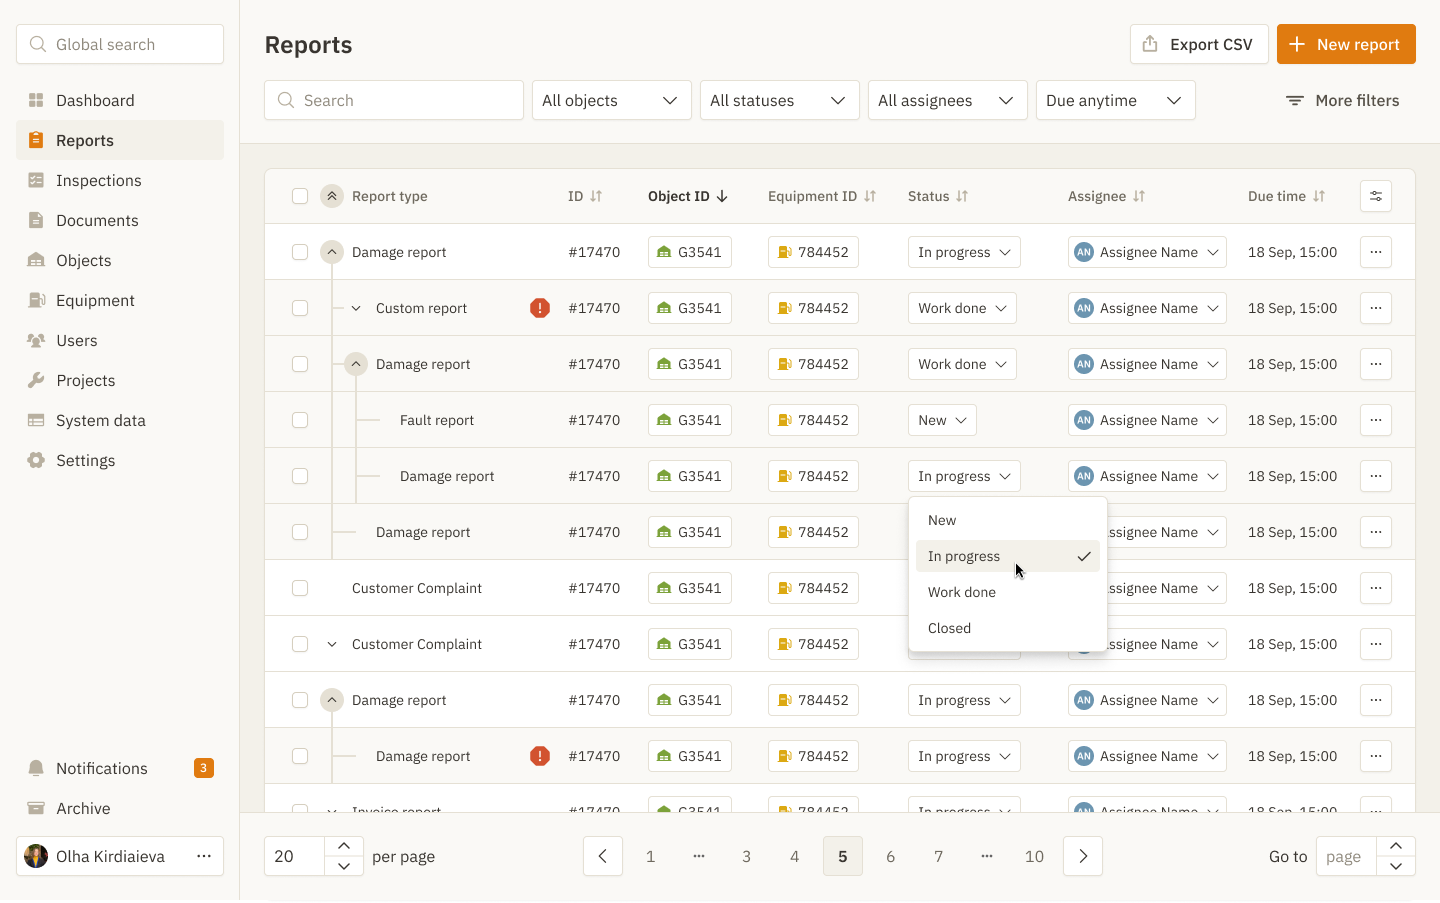
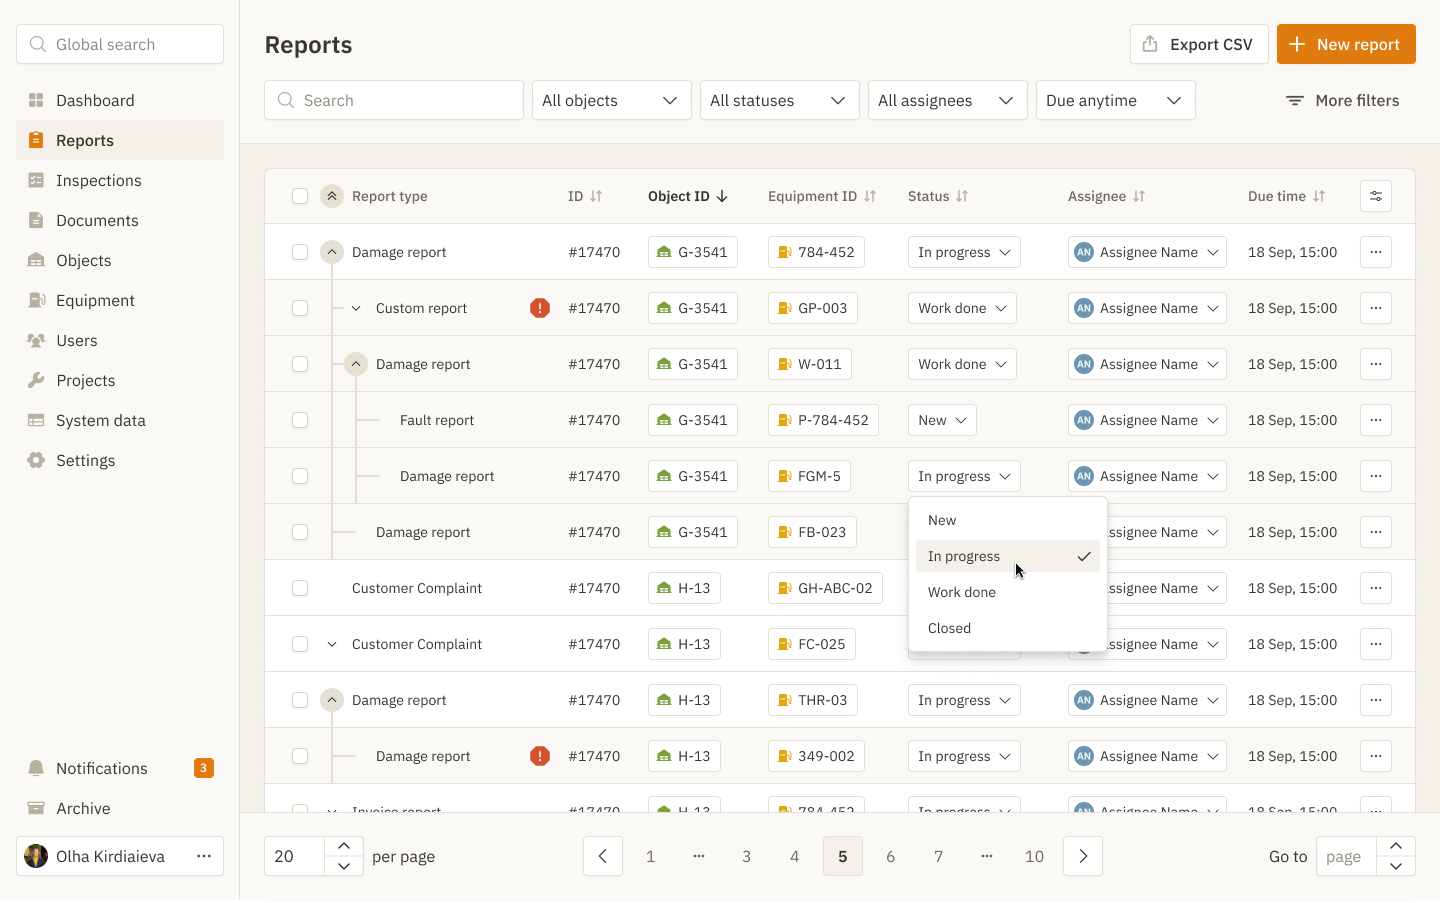
Reports case improvement, new case study analytics

diff --git a/js/analytics.js b/js/analytics.js
@@ -65,4 +65,106 @@
       posthog.capture("contact_click", { method: "linkedin" });
     }
   });
+
+  // Case study engagement: how far visitors scroll, how long they stay, and which
+  // sections they read (dwell >= 4s of active time) vs skip. Accumulates in memory
+  // and fires ONE summary event when they leave. No storage used (cookie-less safe).
+  document.addEventListener("casestudy:rendered", function (ev) {
+    var slug = ev.detail && ev.detail.slug;
+    if (!slug) return;
+
+    var READ_MS = 4000;       // dwell to count a section as "read"
+    var heads = [].slice.call(document.querySelectorAll(".cs-prose h2"));
+    if (!heads.length) return;
+
+    // Section label: prefer an author-assigned id (`## Title {#id}`, set by site.js)
+    // so it survives heading rewrites; else fall back to de-duplicated slugified text.
+    var seen = {};
+    var sections = heads.map(function (h) {
+      if (h.id) return { el: h, label: h.id };
+      var base = (h.textContent || "section").trim().toLowerCase()
+        .replace(/[^a-z0-9]+/g, "-").replace(/^-+|-+$/g, "") || "section";
+      seen[base] = (seen[base] || 0) + 1;
+      var label = seen[base] > 1 ? base + "-" + seen[base] : base;
+      return { el: h, label: label };
+    });
+
+    var dwellMs = {};
+    sections.forEach(function (s) { dwellMs[s.label] = 0; });
+
+    // Section vertical ranges, recomputed each tick so late-loading images / resizes
+    // (which shift layout without a reliable single event) can't misattribute dwell.
+    function buildRanges() {
+      var docH = document.documentElement.scrollHeight;
+      return sections.map(function (s, i) {
+        var next = sections[i + 1];
+        return {
+          label: s.label,
+          top: s.el.getBoundingClientRect().top + window.pageYOffset,
+          bottom: next ? next.el.getBoundingClientRect().top + window.pageYOffset : docH
+        };
+      });
+    }
+
+    var maxScrollPct = 0;
+    function updateScroll() {
+      var docH = document.documentElement.scrollHeight;
+      var pct = docH > 0 ? ((window.pageYOffset + window.innerHeight) / docH) * 100 : 0;
+      if (pct > maxScrollPct) maxScrollPct = Math.min(100, pct);
+    }
+    var rafPending = false;
+    window.addEventListener("scroll", function () {
+      if (rafPending) return;
+      rafPending = true;
+      requestAnimationFrame(function () { rafPending = false; updateScroll(); });
+    }, { passive: true });
+    updateScroll();
+
+    // 1s tick: credit active time to whichever section holds the viewport center.
+    var activeMs = 0;
+    var tick = setInterval(function () {
+      if (document.hidden) return;
+      activeMs += 1000;
+      var ranges = buildRanges();
+      var center = window.pageYOffset + window.innerHeight / 2;
+      for (var i = 0; i < ranges.length; i++) {
+        if (center >= ranges[i].top && center < ranges[i].bottom) {
+          dwellMs[ranges[i].label] += 1000;
+          break;
+        }
+      }
+    }, 1000);
+
+    var sent = false;
+    function sendSummary() {
+      if (sent) return;
+      sent = true;
+      clearInterval(tick);
+
+      var read = [], skipped = [], dwellSecs = {};
+      sections.forEach(function (s) {
+        dwellSecs[s.label] = Math.round(dwellMs[s.label] / 1000);
+        (dwellMs[s.label] >= READ_MS ? read : skipped).push(s.label);
+      });
+
+      posthog.capture("case_study_engaged", {
+        slug: slug,
+        active_seconds: Math.round(activeMs / 1000),
+        max_scroll_pct: Math.round(maxScrollPct),
+        reached_end: maxScrollPct >= 90,
+        sections_total: sections.length,
+        sections_read: read,
+        sections_skipped: skipped,
+        read_count: read.length,
+        skipped_count: skipped.length,
+        section_dwell: dwellSecs
+      });
+    }
+
+    // visibilitychange->hidden is the reliable exit signal (esp. mobile); pagehide backs it up.
+    document.addEventListener("visibilitychange", function () {
+      if (document.hidden) sendSummary();
+    });
+    window.addEventListener("pagehide", sendSummary);
+  });
 })();

diff --git a/js/site.js b/js/site.js
@@ -117,6 +117,18 @@ function renderMarkdown(body) {
   return marked.parse(replaceObsidianEmbeds(body));
 }
 
+/* Stable heading IDs: `## Title {#my-id}` → <h2 id="my-id">Title</h2>.
+   Lets analytics track a section by a fixed id even if its visible text is reworded.
+   Optional per heading; unmarked headings are unaffected. */
+function applyHeadingIds(root) {
+  root.querySelectorAll(".cs-prose h2, .cs-prose h3").forEach((h) => {
+    const m = h.textContent.match(/\s*\{#([a-z0-9-]+)\}\s*$/i);
+    if (!m) return;
+    h.id = m[1];
+    h.textContent = h.textContent.slice(0, m.index).replace(/\s+$/, "");
+  });
+}
+
 function escapeHtml(s) {
   return String(s).replace(/[&<>"']/g, (c) =>
     ({ "&": "&amp;", "<": "&lt;", ">": "&gt;", '"': "&quot;", "'": "&#39;" }[c])
@@ -304,6 +316,10 @@ async function renderCaseStudy(rootEl) {
 
   hookEmbedFallbacks(rootEl);
   initCompare(rootEl);
+  applyHeadingIds(rootEl);
+
+  // Signal that the case study DOM is ready (js/analytics.js listens to track engagement).
+  document.dispatchEvent(new CustomEvent("casestudy:rendered", { detail: { slug } }));
 }
 
 function notFoundMarkup(message) {

diff --git a/content/case-studies/2022-gas-stations.md b/content/case-studies/2022-gas-stations.md
@@ -5,19 +5,19 @@ tags: [UX research, UI redesign]
 year: "2022 → 2026 redesign"
 gradient: 4
 cover: images/reports-kanban-ui-cover.png
-testimonial: "We were able to begin implementing the improvements even before the project was completed because it was so well integrated with our existing workflows. We were able to reduce the number of steps necessary to complete the tasks our users perform most while also increasing the visibility of those tasks in such a way that errors and missteps were reduced."
+testimonial: "We were able to reduce the number of steps necessary to complete the tasks our users perform most while also increasing the visibility of those tasks in such a way that errors and missteps were reduced."
 testimonial_by: "Head of Product Innovation, quote from the agency review"
 ---
 
 ## Context
-### Maintenance of equipment and the UI
+### UX in the need of maintenance
 
 This project was a redesign of a 20-year-old B2B report management system used primarily by gas stations to keep track of their equipment and perform required maintenance. My goal was to reduce complexity and support the customizable workflows of different user types across 5 000+ stations.
 
-As a UX designer at an agency, I was fully responsible for UX research, wireframing, prototyping, and communication with the client. The UI was redesigned in 2026 as part of the case study.
+As a UX designer at an agency, I was fully responsible for UX research, wireframing, prototyping, and communication with the client. My main deliverable was a UX prototype, the UI was redesigned in 2026 for this case study.
 
 ## Process
-### Meeting the different types of users
+### Finding balance between consistency and change
 
 My first step was an in-depth stakeholder interview. I talked to the CEO, product managers, and the lead developer to gather initial requirements and understand business goals.
 
@@ -38,24 +38,25 @@ While analyzing the information architecture, I realized it contained a very sim
 
 ![[reports-kanban-ui.png]]
 
-Although the client liked the Kanban view at first, it was eventually rejected. The reason was that all statuses were fully customizable, and every customer would have a different set depending on their workflow. And most importantly, not all workflows were linear, so it didn’t make sense to visualize them this way. As a result, we decided to stick with the table view.
+Although the client liked the Kanban view at first, it was eventually rejected. The reason was that all statuses were customizable, and not all customer workflows were linear, so it didn’t make sense to visualize them this way. As a result, we decided to stick with the table view.
 
 ![[reports-table-ui.png]]
 
-Even though we decided to keep the original layout, I introduced some UX changes to improve usability and introduce useful shortcuts for power users who spend most of their time processing reports:
+While keeping the original layout, I introduced some UX changes to improve usability and added useful shortcuts for power users who spend most of their time processing reports:
 
 - **Batch selection.** Clicking the first checkbox opens a ribbon menu with batch actions to simplify the workflow for users who process large numbers of reports.
 - **Chips with pop-up previews.** Clicking the "Object/Equipment/Assignee" chip in each row opens a pop-up with details. This helps users get a quick preview of data.
 - **Quick status change.** Clicking the "Status" chip opens a pop-over that allows users to update the report status without opening a separate page.
 - **Customizable filters.** At the top of the page, there is a ribbon with a set of filters. This set can be edited through the "All Filters" menu by clicking the eye icon next to a filter. Also, users can save a preset of values as a template and load them whenever needed.
 
-### Simplifying a complex form
-
+### Quick reporting for urgent maintenance
 The most challenging part of the system was the report creation flow. Previously, it was a long and unpredictable form where new questions appeared out of nowhere. This created high friction for users who needed to quickly create reports in order to get the equipment fixed as soon as possible.
 
-After reviewing the information architecture, I was able to simplify the flow by collapsing four different steps into one and then split the form into two pages. This way I put the required information upfront while moving the optional details to the second page in order to reduce the cognitive load.
+After reviewing the information architecture, I was able to simplify the flow by collapsing four different steps into one and then split the form into two pages. This way, I put the required information upfront while moving the optional details to the second page.
 
 ![[reports-new-ui-filled.png]]
+
+Revisiting the project in 2026, this layout could open an opportunity to pre-fill the report with AI using data from the uploaded documents. This wasn't feasible when the project was first designed, but could save even more time for the users when creating reports.
 
 
 ## Outcome